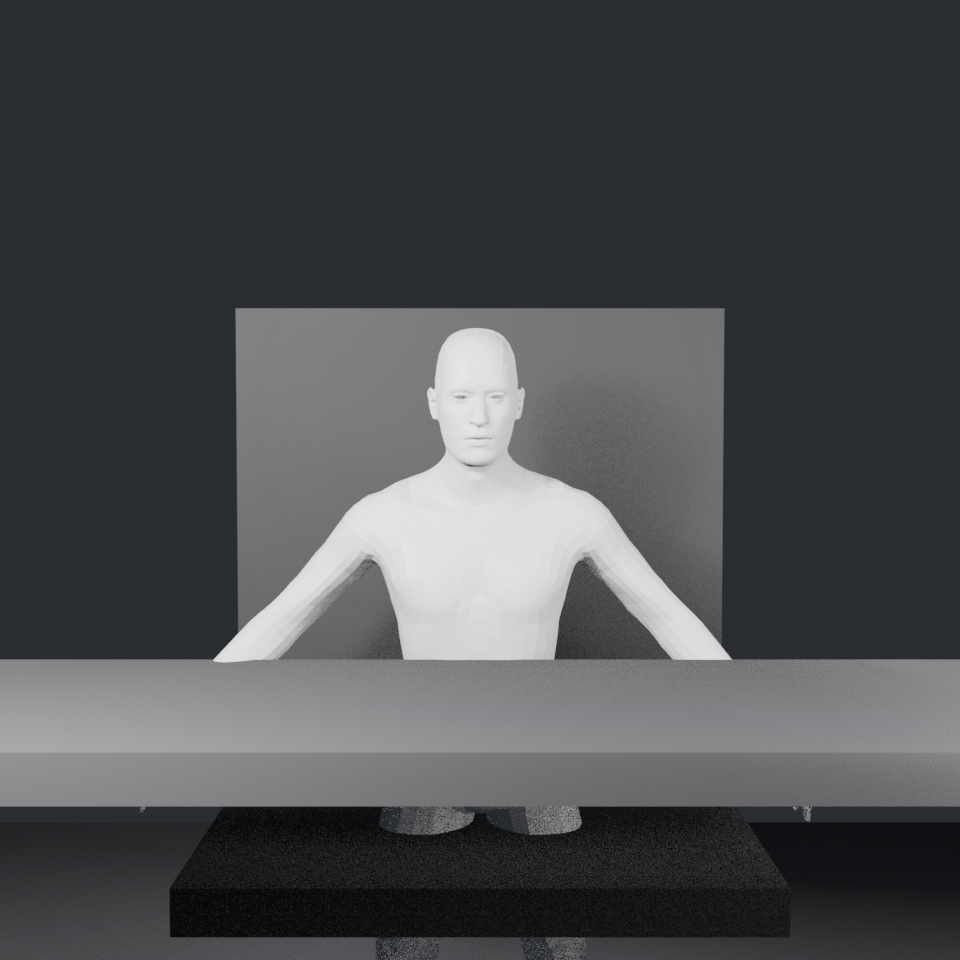
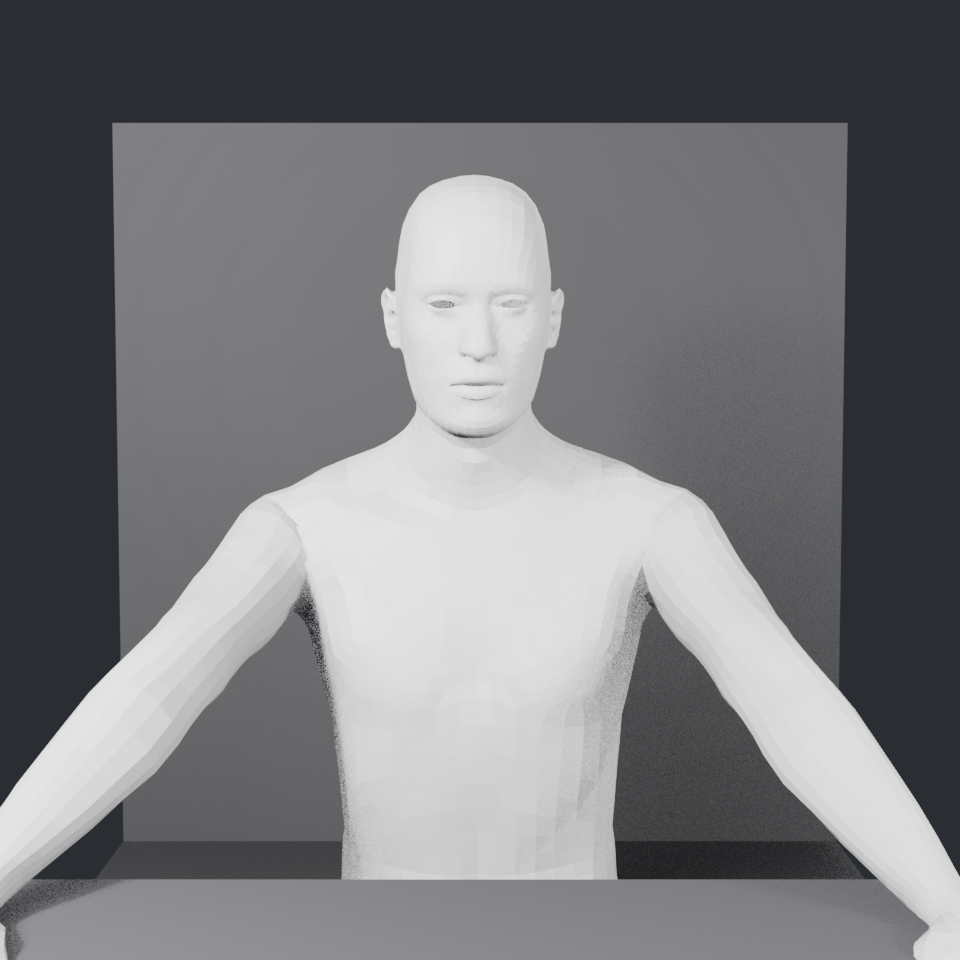
Anon: 3 files (3 modified)

diff --git a/Anon/tools/render_body.py b/Anon/tools/render_body.py
@@ -34,12 +34,12 @@ RIG_BLEND = "assets/rig/body_rig.blend"
 # (location, look-at height, lens). Units are the rig's own, which are roughly
 # decimetres: the body spans about 18 units head to toe.
 CAMERAS = {
-    "front":   ((0.0, -26.0, 7.6), 6.4, 52.0),
-    "side":    ((22.0, -13.0, 7.2), 6.0, 55.0),
-    "three_q": ((14.0, -22.0, 8.2), 6.4, 52.0),
-    "rear":    ((-6.0, 20.0, 8.6), 6.2, 55.0),
-    "top":     ((0.5, -9.0, 22.0), 3.0, 40.0),
-    "torso":   ((0.0, -14.0, 6.2), 5.6, 70.0),
+    "front":   ((0.0, -17.0, 7.4), 6.2, 62.0),
+    "side":    ((15.5, -7.0, 7.2), 6.0, 62.0),
+    "three_q": ((10.0, -14.0, 7.8), 6.4, 60.0),
+    "rear":    ((-5.0, 14.0, 8.4), 6.2, 58.0),
+    "top":     ((0.5, -7.0, 18.0), 3.5, 45.0),
+    "torso":   ((0.0, -11.0, 6.4), 5.8, 72.0),
 }
 
 
@@ -72,13 +72,22 @@ def setup_scene(camera: str, width: int, height: int, samples: int = 16):
     world.node_tree.nodes["Background"].inputs[0].default_value = (0.05, 0.055, 0.065, 1)
     world.node_tree.nodes["Background"].inputs[1].default_value = 0.6
 
-    # Desk, chair, mouse. Blocks, on purpose.
-    j_desk = None
+    # Desk, chair, floor. Blocks, on purpose - what is being judged is the
+    # body, not the furniture.
+    #
+    # Placement is derived from the contact targets rather than typed in. The
+    # first version put the desk at +Y, which after the MakeHuman-to-Blender
+    # conversion is *behind* him: forward is -Y. He was sitting with his back
+    # to his own desk.
+    tgt = bpy.data.objects.get("target_mouse")
+    desk_z = tgt.location.z if tgt is not None else 2.0
+    desk_y = tgt.location.y if tgt is not None else -6.0
+
     for name, loc, size in (
-        ("desk", (0.0, 3.2, 0.0), (11.0, 3.4, 0.35)),
-        ("chair_seat", (0.0, 0.6, -0.4), (5.0, 4.6, 0.4)),
-        ("chair_back", (0.0, 3.0, 4.6), (5.0, 0.5, 5.2)),
-        ("floor", (0.0, 0.0, -9.2), (30.0, 30.0, 0.2)),
+        ("desk", (0.0, desk_y - 1.6, desk_z - 0.3), (8.5, 3.0, 0.28)),
+        ("chair_seat", (0.0, 1.2, 0.9), (4.6, 4.2, 0.35)),
+        ("chair_back", (0.0, 4.4, 5.6), (4.6, 0.45, 4.8)),
+        ("floor", (0.0, 0.0, -9.4), (26.0, 26.0, 0.2)),
     ):
         bpy.ops.mesh.primitive_cube_add(size=2.0, location=loc)
         o = bpy.context.object
@@ -87,21 +96,10 @@ def setup_scene(camera: str, width: int, height: int, samples: int = 16):
         m = bpy.data.materials.new(name + "_mat")
         m.use_nodes = True
         bsdf = m.node_tree.nodes["Principled BSDF"]
-        shade = 0.045 if name.startswith("chair") else (0.09 if name == "desk" else 0.16)
+        shade = 0.05 if name.startswith("chair") else (0.10 if name == "desk" else 0.17)
         bsdf.inputs["Base Color"].default_value = (shade, shade, shade * 1.06, 1)
         bsdf.inputs["Roughness"].default_value = 0.72
         o.data.materials.append(m)
-        if name == "desk":
-            j_desk = o
-
-    # The desk sits at the height the contact targets were derived from, so the
-    # hands land on it rather than through it.
-    tgt = bpy.data.objects.get("target_mouse")
-    if tgt is not None and j_desk is not None:
-        j_desk.location.z = tgt.location.z - 0.35
-        j_desk.location.y = tgt.location.y + 0.4
-        for n in ("chair_seat",):
-            pass
 
     for name, loc, energy, size in (
         ("key", (-9.0, -14.0, 13.0), 9000.0, 7.0),

diff --git a/Anon/src/presenter/motion/body.py b/Anon/src/presenter/motion/body.py
@@ -129,6 +129,10 @@ COMFORT_SHIFTS = {
         targets={"pelvis": (+2.2, 0.0, 0.0), "spine_lower": (+1.7, 0.0, 0.0),
                  "chest": (+0.8, 0.0, 0.0)},
     ),
+    "HAND_REPOSITION": dict(
+        weight=0.8, duration=(0.7, 1.4),
+        targets={"clavicle_l": (0.0, 0.0, -0.5), "shoulder_l": (+0.6, 0.0, 0.0)},
+    ),
     "TORSO_ROTATE": dict(
         weight=0.6, duration=(1.8, 3.2),
         targets={"spine_lower": (0.0, +1.5, 0.0), "spine_mid": (0.0, +1.2, 0.0),
@@ -159,6 +163,7 @@ class BodySystem:
         self._held: dict[str, list[float]] = {}
         self._next_at = None
         self._recent: list[str] = []
+        self._left_rest = "desk_rest_l"
         self.shift_count = 0
 
     # -- scheduling ----------------------------------------------------------
@@ -210,6 +215,11 @@ class BodySystem:
         if len(self._recent) > 4:
             self._recent.pop(0)
 
+        if kind == "HAND_REPOSITION":
+            # The left hand moves between the desk and the lap. Rare, and it
+            # persists - a hand that springs back was not repositioned.
+            self._left_rest = ("lap_rest_l" if self._left_rest == "desk_rest_l"
+                               else "desk_rest_l")
         if kind == "SMALL_LEAN_FORWARD":
             self._engagement_target = min(self._engagement_target + 0.55, 1.0)
         elif kind == "SETTLE_BACK":
@@ -290,6 +300,15 @@ class BodySystem:
                 j.rx += held[0]
                 j.ry += held[1]
                 j.rz += held[2]
+
+        # Resting hands. One natural arrangement, locked: the dominant hand on
+        # the mouse, the other resting on the desk. Hands that float in space
+        # are the clearest sign a body is not really in a room, so the default
+        # is contact, not free.
+        motion.hand_r.contact = "mouse"
+        motion.hand_r.contact_weight = 1.0
+        motion.hand_l.contact = self._left_rest
+        motion.hand_l.contact_weight = 1.0
 
         motion.posture = PostureState(
             engagement=self._engagement,
